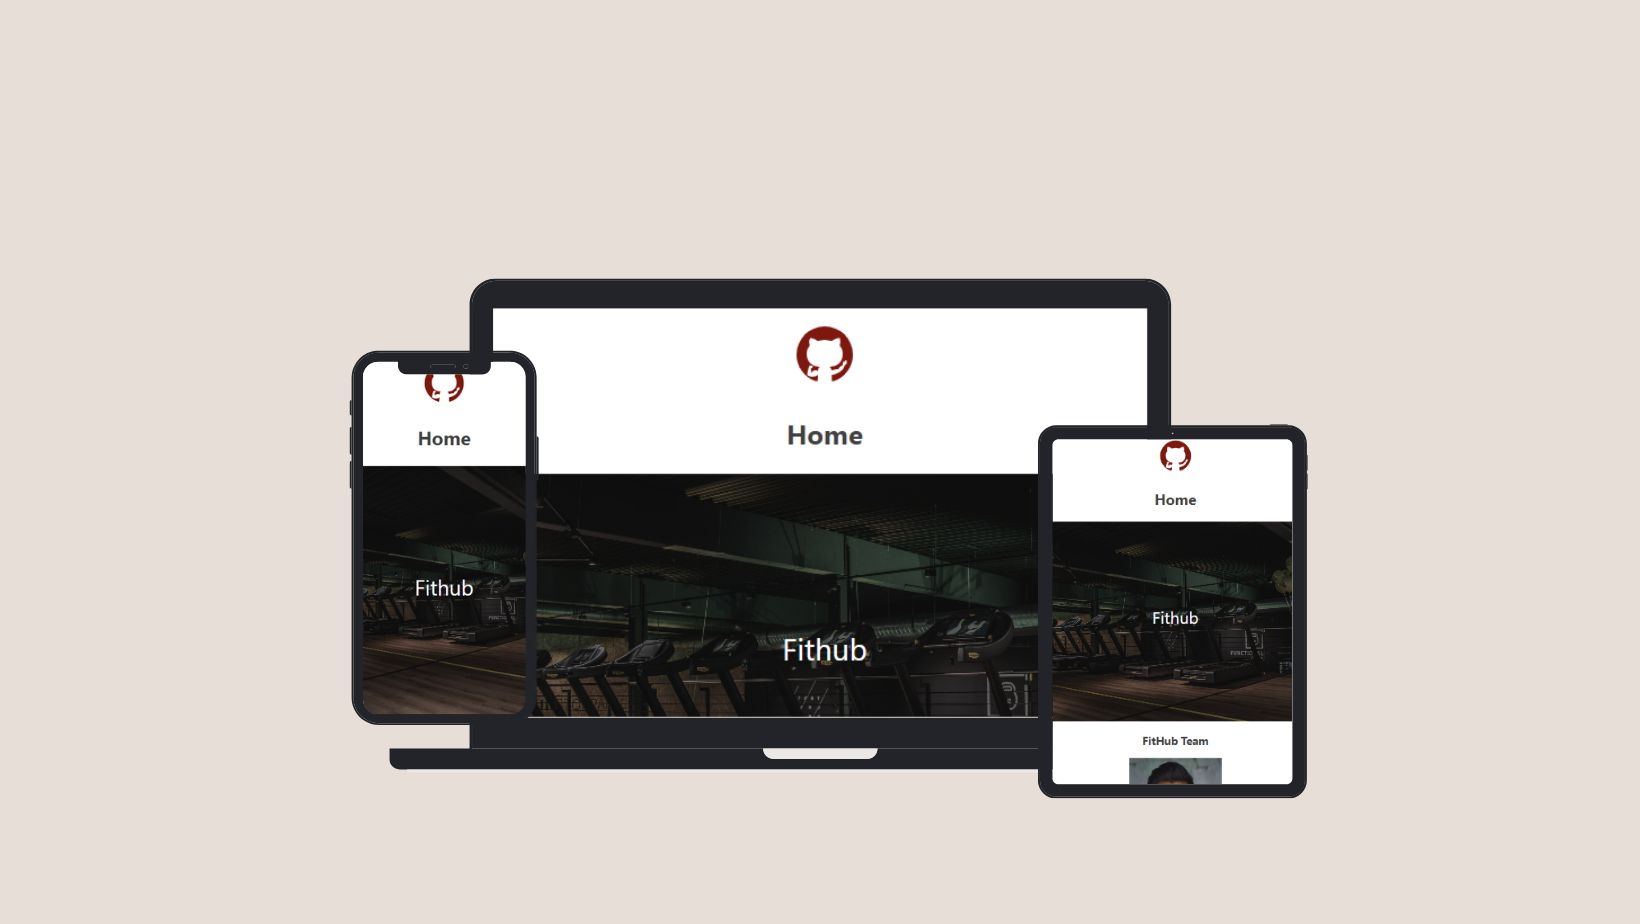
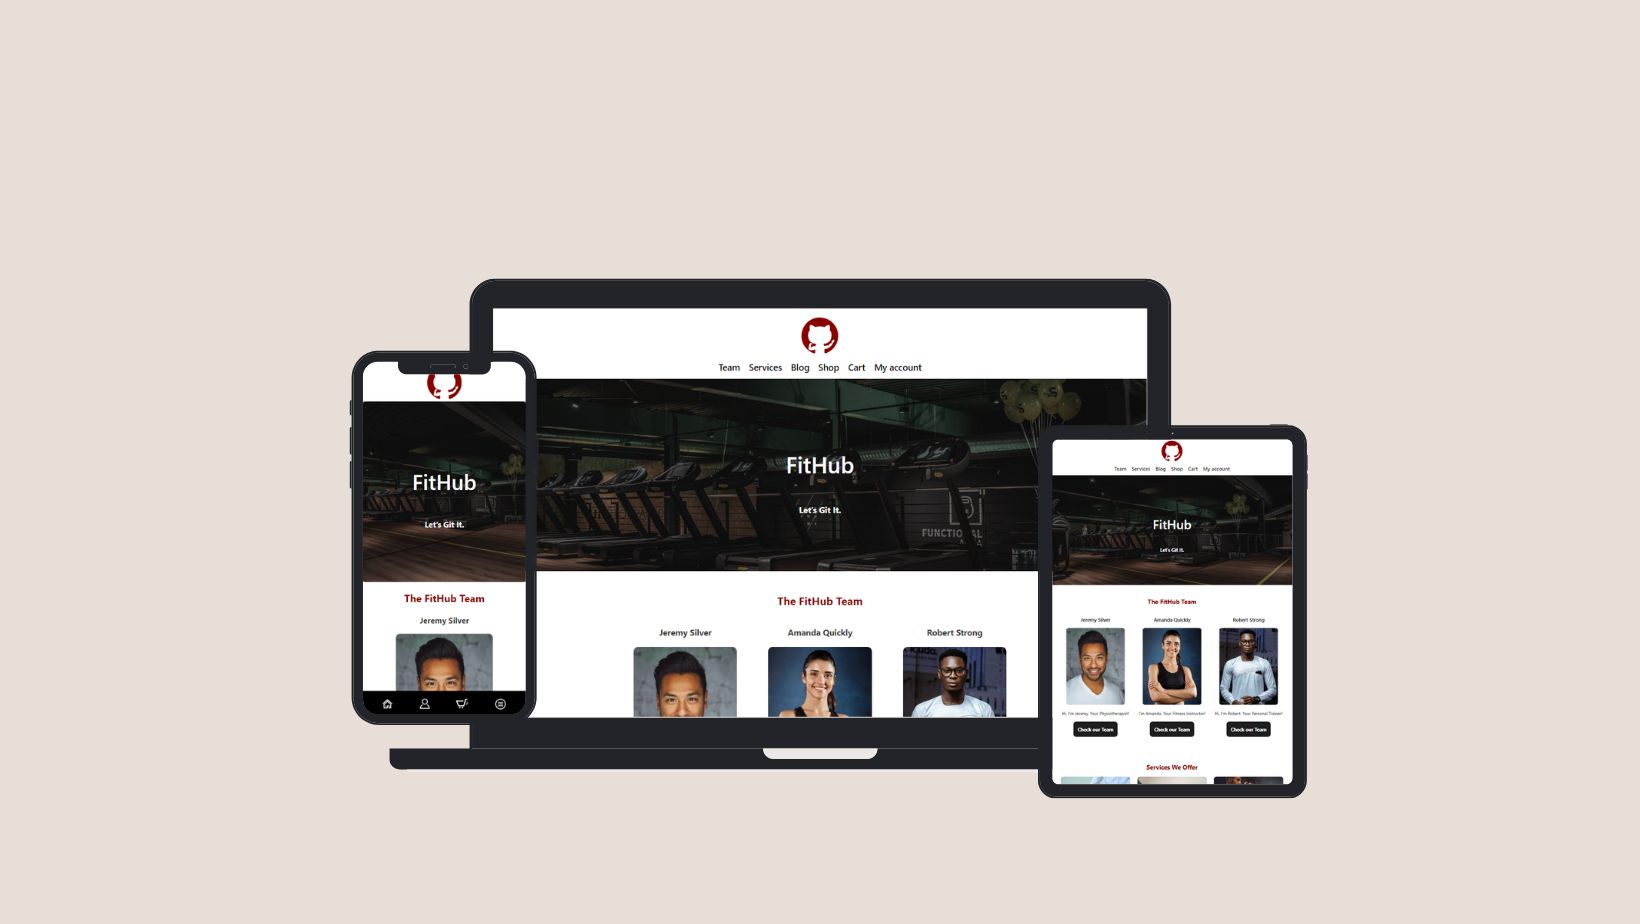
updated text css,butns hover state, and image for captone project

Changed region(s): [[0.2177, 0.3333, 0.8085, 0.8485]]

diff --git a/src/pages/page-home.js b/src/pages/page-home.js
@@ -70,7 +70,7 @@ function PageHome() {
       <div className="about" ref={aboutRef}>
         <h2>About</h2>
         <br />
-        <p>Hello there! I'm a passionate Front-End Web Developer on a perpetual journey of discovery and growth. My love for crafting seamless digital experiences is fueled by a deep commitment to learning and adapting in the ever-evolving world of web development. Beyond the code, you'll find me embracing challenges with enthusiasm, bringing a blend of adaptability and quick learning to every project. My goal? To not just meet expectations but to exceed them, pushing the boundaries of what's possible in the dynamic field of front-end development. Let's create something extraordinary together!</p>
+        <p className='about-home'>Hello there! I'm a passionate Front-End Web Developer on a perpetual journey of discovery and growth. My love for crafting seamless digital experiences is fueled by a deep commitment to learning and adapting in the ever-evolving world of web development. Beyond the code, you'll find me embracing challenges with enthusiasm, bringing a blend of adaptability and quick learning to every project. My goal? To not just meet expectations but to exceed them, pushing the boundaries of what's possible in the dynamic field of front-end development. Let's create something extraordinary together!</p>
         <br />
         <a href="/about"> 
           <button className="button-arounder">Find out more!</button>

diff --git a/src/App.css b/src/App.css
@@ -132,7 +132,11 @@ body:active * {
   padding-right: 15%;
 }
 
-h2, .about p {
+.about p {
+  text-align: left;
+}
+
+/* h2, .about p {
   line-height: 1.5;
   display: inline;
   background-image: linear-gradient(
@@ -144,7 +148,7 @@ h2, .about p {
   );
   background-repeat: no-repeat;
   background-size: 0% 100%;
-}
+} */
 
 
 .skills {
@@ -263,6 +267,10 @@ h2, .about p {
   line-height: 1.5;
 }
 
+p {
+  margin: 0 auto 1rem;
+  line-height: 1.5;
+}
 
 
  button {
@@ -280,7 +288,7 @@ h2, .about p {
 
  button:hover {
   background-color: #8E44AD     ; 
-  transform: scale(1.78);
+  transform: scale(1.1);
 }
 
 
@@ -484,7 +492,11 @@ p {
 
 @import url('https://fonts.googleapis.com/css2?family=Fjalla+One&display=swap');
 
-h2 {
-  font-family: 'Fjalla One', sans-serif;
+h2, h3 {
+  font-family: "Prata", serif;
+}
+
+.project p{
+  text-align: left;
 }
 
